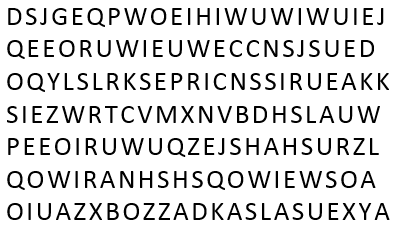
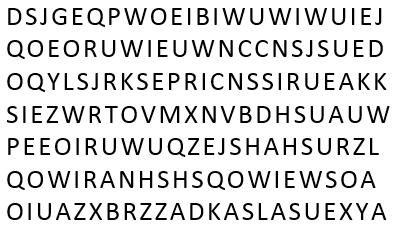
Fin du projet Création des PictureBox qui font office de différences. Les différences se mettent en rouge.

diff --git a/Enigmas/SeptDifferencesEnigmaPanel.cs b/Enigmas/SeptDifferencesEnigmaPanel.cs
@@ -10,9 +10,15 @@ namespace Cpln.Enigmos.Enigmas
 {
     class SeptDifferencesEnigmaPanel : EnigmaPanel
     {
+        PictureBox pbx1 = new PictureBox();
+        PictureBox pbx2 = new PictureBox();
+        PictureBox pbx3 = new PictureBox();
+        PictureBox pbx4 = new PictureBox();
+        PictureBox pbx5 = new PictureBox();
+        PictureBox pbx6 = new PictureBox();
+        PictureBox pbx7 = new PictureBox();
         public SeptDifferencesEnigmaPanel()
-        {
-
+        { 
             //Elargissement de la form
             this.Width = this.Width + 100;
 
@@ -40,13 +46,82 @@ namespace Cpln.Enigmos.Enigmas
             lblEnigme.TextAlign = ContentAlignment.TopCenter;
 
             Controls.Add(lblEnigme);
-            
-            public void CreatePnl()
-            {
 
-            }
+            //Première différence
+            int iX1 = 195, iY1 = 6;
+            PictureBox(pbx1, Img2, iX1, iY1);
+            pbx1.Click += new EventHandler(ClickOnDiff1);
 
+            //Deuxième différence
+            int iX2 = 27, iY2 = 38;
+            PictureBox(pbx2, Img2, iX2, iY2);
+            pbx2.Click += new EventHandler(ClickOnDiff2);
+
+            //Troisième différence
+            int iX3 = 218, iY3 = 38;
+            PictureBox(pbx3, Img2, iX3, iY3);
+            pbx3.Click += new EventHandler(ClickOnDiff3);
+
+            //Quatrième différence
+            int iX4 = 88, iY4 = 71;
+            PictureBox(pbx4, Img2, iX4, iY4);
+            pbx4.Click += new EventHandler(ClickOnDiff4);
+
+            //Cinquième différence
+            int iX5 = 121, iY5 = 104;
+            PictureBox(pbx5, Img2, iX5, iY5);
+            pbx5.Click += new EventHandler(ClickOnDiff5);
+
+            //Sixième différence
+            int iX6 = 309, iY6 = 104;
+            PictureBox(pbx6, Img2, iX6, iY6);
+            pbx6.Click += new EventHandler(ClickOnDiff6);
+
+            //Septième différence
+            int iX7 = 122, iY7 = 201;
+            PictureBox(pbx7, Img2, iX7, iY7);
+            pbx7.Click += new EventHandler(ClickOnDiff7);
             
+        }
+        public void PictureBox(PictureBox pbx, PictureBox img, int iX, int iY)
+        {
+            CreatePbx(pbx);
+            pbx.Location = new Point(iX, iY);
+            img.Controls.Add(pbx);
+            
+        }
+        public void CreatePbx(PictureBox Pbx)
+        {
+            Pbx.Size = new Size(17,20);
+            Pbx.BackColor = Color.Red;
+        }
+        private void ClickOnDiff1(object sender, EventArgs e)
+        {
+            pbx1.BackColor = Color.FromArgb(100, Color.Red);
+        }
+        private void ClickOnDiff2(object sender, EventArgs e)
+        {
+            pbx2.BackColor = Color.FromArgb(100, Color.Red);
+        }
+        private void ClickOnDiff3(object sender, EventArgs e)
+        {
+            pbx3.BackColor = Color.FromArgb(100, Color.Red);
+        }
+        private void ClickOnDiff4(object sender, EventArgs e)
+        {
+            pbx4.BackColor = Color.FromArgb(100, Color.Red);
+        }
+        private void ClickOnDiff5(object sender, EventArgs e)
+        {
+            pbx5.BackColor = Color.FromArgb(100, Color.Red);
+        }
+        private void ClickOnDiff6(object sender, EventArgs e)
+        {
+            pbx6.BackColor = Color.FromArgb(100, Color.Red);
+        }
+        private void ClickOnDiff7(object sender, EventArgs e)
+        {
+            pbx7.BackColor = Color.FromArgb(100, Color.Red);
         }
     }
 }

diff --git a/Properties/Resources.Designer.cs b/Properties/Resources.Designer.cs
@@ -72,7 +72,6 @@ namespace Cpln.Enigmos.Properties {
         
         /// <summary>
         ///   Looks up a localized string similar to &lt;?xml version=&quot;1.0&quot; encoding=&quot;utf-8&quot; standalone=&quot;no&quot; ?&gt;
-<<<<<<< HEAD
         ///&lt;enigmas&gt;
         ///  &lt;enigma title=&quot;Le plus long mot&quot;&gt;
         ///    &lt;answer&gt;oiseaux&lt;/answer&gt;
@@ -89,8 +88,6 @@ namespace Cpln.Enigmos.Properties {
         ///  &lt;enigma title=&quot;C&apos;est simple&quot;&gt;
         ///    &lt;answer&gt;simple&lt;/answer&gt;
         ///    &lt;hint&gt;Pas [rest of string was truncated]&quot;;.
-=======
->>>>>>> upstream/master
         /// </summary>
         internal static string enigmas {
             get {
